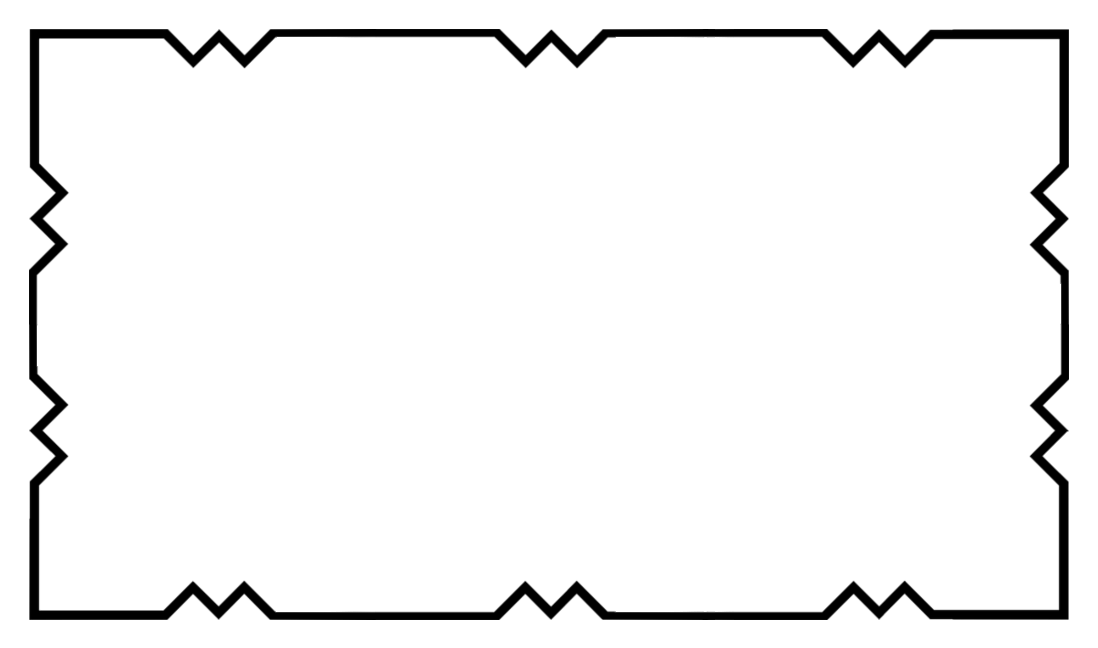
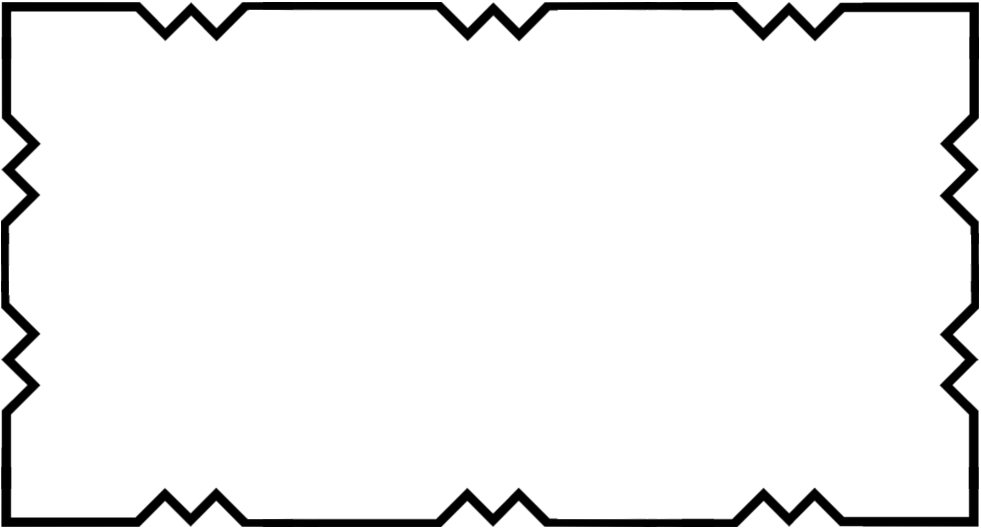
Factor out card sizes
Also adjust card layout for makeplayingcards.com, which is cheaper than moo.com

Changed region(s): [[0.0, 0.0, 1.0, 0.9981]]

diff --git a/generate-cards.py b/generate-cards.py
@@ -64,44 +64,57 @@ def balance(text, max_chars_per_line, initial_leftovers=0):
 
 
 def generate_image(text, font_size, url, output):
-      subprocess.check_call([
-        'magick',
-        # White business card sized thing.
-        # 3.34 x 1.84 inches @ 300 DPI (safe area)
-        '-size', '1002x552',
-        'xc:white',
-        # Settings for future stages
-        '-background', 'transparent',
-        '-fill', 'black',
-        '-font', 'cards/RobotoCondensed-Bold.ttf',
-        # The rule itself
-        '-gravity', 'center',
-        '-pointsize', str(font_size),
-        '-size', '1002x552',
-        'caption:{}'.format(text),
-        '-gravity', 'none', '-composite',
-        # The URL
-        '-gravity', 'south',
-        '-pointsize', '50',
-        '-size', '1002x534',
-        'caption:{}'.format(url),
-        '-gravity', 'none', '-composite',
-        # Expand to the full bleed size, centering the previous stage
-        '-gravity', 'center',
-        '-background', 'white',
-        '-extent', '1098x648',
-        # Add a border overlay
-        'cards/border.png',
-        '-gravity', 'none', '-composite',
-        # Output with palette for smallest possible image size
-        '-colors', '4',
-        'png8:{}'.format(output),
-      ])
+  # moo.com safe area:               3.340" x 1.840"
+  # makeplayingcards.com safe area:  3.260" x 1.760"
+  # @ 300 DPI:
+  SAFE_AREA = '978x528'
 
-      # Further optimize the image.
-      subprocess.check_call([
-        'optipng', '-o2', output,
-      ], stdout=subprocess.DEVNULL, stderr=subprocess.DEVNULL)
+  # cut size:                        3.500" x 2.000"
+  CUT_AREA = '1050x600'
+
+  # moo.com full bleed:              3.660" x 2.160"
+  # makeplayingcards.com full bleed: 3.740" x 2.240"
+  BLEED_AREA = '1122x672'
+
+  URL_LOCATION = '978x490'
+
+  subprocess.check_call([
+    'magick',
+    # White business card sized thing.
+    '-size', SAFE_AREA,
+    'xc:white',
+    # Settings for future stages
+    '-background', 'transparent',
+    '-fill', 'black',
+    '-font', 'cards/RobotoCondensed-Bold.ttf',
+    # The rule itself
+    '-gravity', 'center',
+    '-pointsize', str(font_size),
+    '-size', SAFE_AREA,
+    'caption:{}'.format(text),
+    '-gravity', 'none', '-composite',
+    # The URL
+    '-gravity', 'south',
+    '-pointsize', '50',
+    '-size', URL_LOCATION,
+    'caption:{}'.format(url),
+    '-gravity', 'none', '-composite',
+    # Expand to the full bleed size, centering the previous stage
+    '-gravity', 'center',
+    '-background', 'white',
+    '-extent', BLEED_AREA,
+    # Add a border overlay
+    'cards/border.png',
+    '-gravity', 'center', '-composite',
+    # Output with palette for smallest possible image size
+    '-colors', '4',
+    'png8:{}'.format(output),
+  ])
+
+  # Further optimize the image.
+  subprocess.check_call([
+    'optipng', '-o2', output,
+  ], stdout=subprocess.DEVNULL, stderr=subprocess.DEVNULL)
 
 
 def main():

diff --git a/cards/README.md b/cards/README.md
@@ -1,16 +1,16 @@
 # Print Your Own Rules On Business Cards
 
 Here you will find images suitable for printing your favorite rules on business
-cards.  Services like [MOO](https://www.moo.com/us/business-cards/original)
-will allow you to print a set of business cards with different things on each,
-and the images in this folder fit their design guidelines perfectly.
+cards.  Services like [MakePlayingCards](https://makeplayingcards.com/) or
+[MOO](https://www.moo.com/us/business-cards/original) will allow you to print a
+set of business cards with different things on each, and the images in this
+folder fit their design guidelines.
 
 These are designed for a standard 3.5" x 2" US business card at 300 DPI, with a
-bleed area of 3.66" x 2.16" and a safe zone of 3.34" x 1.84" as specified by
-MOO's template.
+bleed area of 3.74" x 2.24" and a safe zone of 3.26" x 1.76" as specified by
+MakePlayingCards's template.
 
-Simply upload the [front image](front.png) and your favorite 50 rules from
+Simply upload the [front image](front.png) and your favorite rules from
 [the backs folder](backs/) and they will print them for you.  The going rate
-as of 2025-08 is $22 for a set of 50.
-
-If you're a completionist, you can place 3 orders to get all 133 rules!
+on MakePlayingCards as of October 2025 is $17 for a set of 60, or $34 for all
+133 rules.